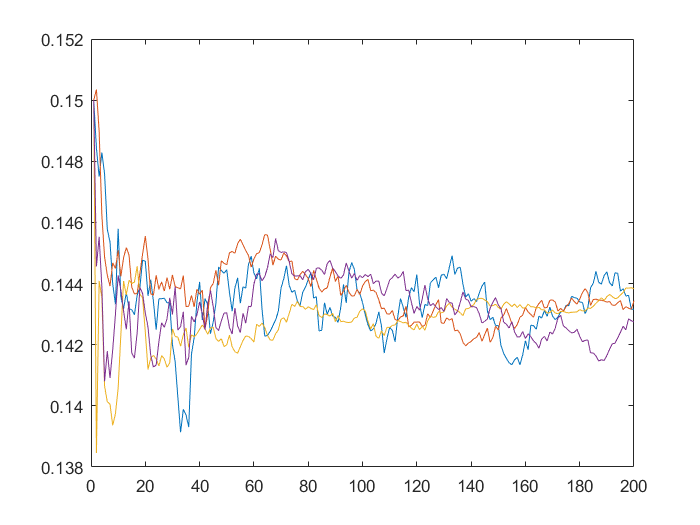
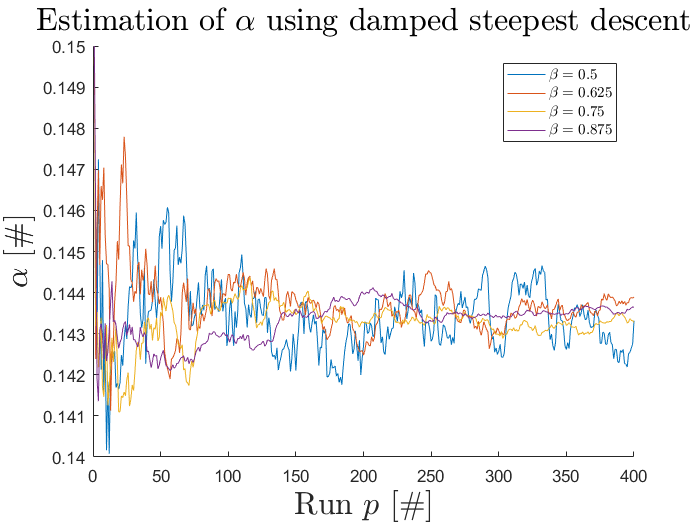
Updated plots in Task 3 & 4

diff --git a/code/Task5/main.c b/code/Task5/main.c
@@ -35,7 +35,7 @@ int main()
     double e4pi;
     double alpha;
 
-    int nbr_of_trials       = 10000000;
+    int nbr_of_trials       = 10000;
     int nbr_of_trials_eq    = 1000;
     int nbr_of_runs         = 1000;
 
@@ -49,7 +49,7 @@ int main()
     e       = 1.0;
     m_e     = 1.0;
     e4pi    = 1.0;
-    alpha   = 0.1431064;
+    alpha   = 0.1435;
 
 
     // ======== MONTE CARLO SIMULATION ========
@@ -64,7 +64,7 @@ int main()
     double var_energy_tot = calc_var(mean_energy,nbr_of_runs);
 
     printf("E_0: %e \n", mean_energy_tot);
-    printf("Var: %e \n", var_energy_tot );
+    printf("Var: %e \n", sqrt(var_energy_tot/(double)(nbr_of_runs)) );
 
     free (energy);
     free (mean_energy);

diff --git a/code/Task4/plot_alpha_energy.m b/code/Task4/plot_alpha_energy.m
@@ -4,7 +4,7 @@ alpha_energy=importdata('alpha.dat');
 
 size_alpha=size(alpha_energy);
 
-sim_length = 500;
+sim_length = 400;
 
 % make new loop that starts at k=1:4
 % and start in alpha_energy ((k-1)*200)
@@ -43,5 +43,5 @@ legend({'$\beta = 0.5$','$\beta = 0.625$','$\beta = 0.75$','$\beta = 0.875$'},'i
 
 xlabel('Run $p$ [$\#$]','interpreter','latex','fontsize',19)
 ylabel('$\alpha$ [$\#$]','interpreter','latex','fontsize',19)
-title('Estimation of $\alpha$ which yeild lowest energy','interpreter','latex','fontsize',19)
+title('Estimation of $\alpha$ using damped steepest descent','interpreter','latex','fontsize',19)
 xlim([startShift, sim_length])

diff --git a/report/report.tex b/report/report.tex
@@ -154,7 +154,7 @@ In order to determine the best value of the variational parameter $\alpha$, we r
 		\caption{}
 		\label{fig:optimize_alpha_a}
 	\end{subfigure}
-	\caption{SOMETHING ABOUT HOW ALPHA CHANGES WITH DIFFERENT BETAS}
+	\caption{Using damped steepest descent for estimating the variational parameter $\alpha$ gives alot of deviations in the early stages, but we can see that we end up around the same region for different $\beta$ parameters in the descent method for larger runs. The final $\alpha$ is around $\approx 0.1435$}
 	\label{fig:beta_dep}
 \end{figure}
 

diff --git a/code/Task3/plot_alpha_energy.m b/code/Task3/plot_alpha_energy.m
@@ -13,7 +13,7 @@ hold on
 [min_alpha, min_alpha_idx]=min(mean_alpha);
 plot(alpha_energy(min_alpha_idx,1),mean_alpha(min_alpha_idx),'rx')
 
-min_energy_plot=-2.881;
+min_energy_plot=-2.880;
 
 plot([alpha_energy(min_alpha_idx,1) alpha_energy(min_alpha_idx,1)],[min_energy_plot,mean_alpha(min_alpha_idx)],'k--')
 plot([alpha_energy(1,1) alpha_energy(min_alpha_idx,1)],[mean_alpha(min_alpha_idx),mean_alpha(min_alpha_idx)],'k--')
